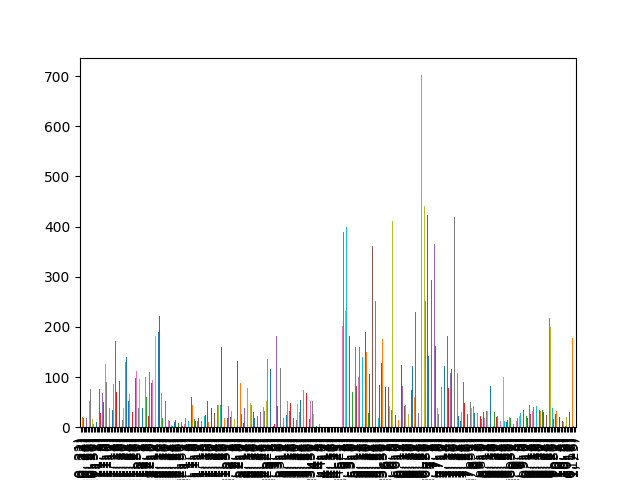
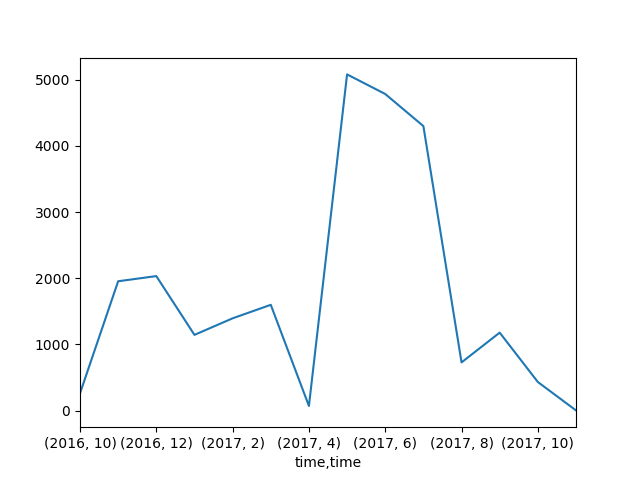
graph ya

diff --git a/visits/101users.py b/visits/101users.py
@@ -8,7 +8,7 @@ pd.options.display.max_rows = 50
 pd.options.display.max_columns = 15
 pd.options.display.width = 500
 
-data = pd.read_csv("101users.csv")#.head(100)
+data = pd.read_csv("101users.csv")
 
 # data = pd.concat([data,  axis=1)
 data = data.apply(lambda x: pd.Series({**json.loads(x['properties']), **x}), axis=1)
@@ -39,18 +39,25 @@ page_grouped = data.groupby(['page']).size().sort_values()
 page_grouped.to_csv('page_views.csv')
 
 visit_history = data
+
 visit_history['time'] = visit_history['time'].astype("datetime64")
 
-visit_history.groupby([visit_history["time"].dt.year, visit_history["time"].dt.month, visit_history["time"].dt.day]).size().plot(kind="bar")
+visit_history.groupby([visit_history["time"].dt.year, visit_history["time"].dt.month]).size().plot(kind="line")
 
 plt.savefig("views_over_time.png")
 
-grouped_by_visit_id = data.groupby(['visit_id']).size().sort_values().to_frame('count').reset_index()
+data.groupby(['visit_id']).size().sort_values().to_frame('count').plot(kind='box')
+plt.show()
 
-grouped_by_count = grouped_by_visit_id.groupby(['count']).mean().reset_index()
-grouped_by_count.columns = ['count', 'average number of page views']
+print(data.groupby(['visit_id']).size().sort_values().to_frame('count').describe())
 
-grouped_by_count.to_csv('views_per_visit.csv')
+
+
+
+# grouped_by_count = grouped_by_visit_id.groupby(['count']).mean().reset_index()
+# grouped_by_count.columns = ['count', 'average number of page views']
+#
+# grouped_by_count.to_csv('views_per_visit.csv')
 
 
 

diff --git a/visits/101graph_users.py b/visits/101graph_users.py
@@ -1,0 +1,47 @@
+import pandas as pd
+import matplotlib
+import numpy as np
+import matplotlib.pyplot as plt
+import json
+import seaborn as sns
+import networkx as nx
+
+pd.options.display.max_rows = 50
+pd.options.display.max_columns = 15
+pd.options.display.width = 500
+
+data = pd.read_csv("101users.csv")#.head(400)
+
+# data = pd.concat([data,  axis=1)
+data = data.apply(lambda x: pd.Series({**json.loads(x['properties']), **x}), axis=1)
+
+data['page'] = data['page'].apply(lambda x: x.replace("/wiki/", "/")[1:])
+data = data[data['name'] == '$view']
+data = data[data['page'] != 'search']
+data = data[data['page'] != 'resource']
+
+data = data.drop('properties', axis=1)
+
+data = data.groupby('visit_id').apply(
+    lambda d: pd.DataFrame([{'source': x, 'target': y} for y in d['page'].unique() for x in d['page'].unique()]))
+
+data = data.groupby(['source', 'target']).size().to_frame('count').reset_index()
+
+# data = data.pivot_table(values='count', index='source', columns='target', aggfunc=np.sum).fillna(0.0)
+
+print(data)
+
+G = nx.Graph()
+
+for i, x in data.iterrows():
+    if x['source'] < x['target'] and x['count'] > 2:  # and x['count'] > 2
+        G.add_edge(x['source'], x['target'], weight=x['count'])
+
+degree = nx.degree(G)
+
+nx.draw(G, nodelist=degree.keys(),pos=nx.spring_layout(G), node_size=[np.log(v) * 20 for v in degree.values()])
+#nx.draw(G, node_list=degree.keys(), pos=nx.spring_layout(G), node_size=degree)
+plt.show()
+
+# sns.heatmap(data)
+# plt.show()
